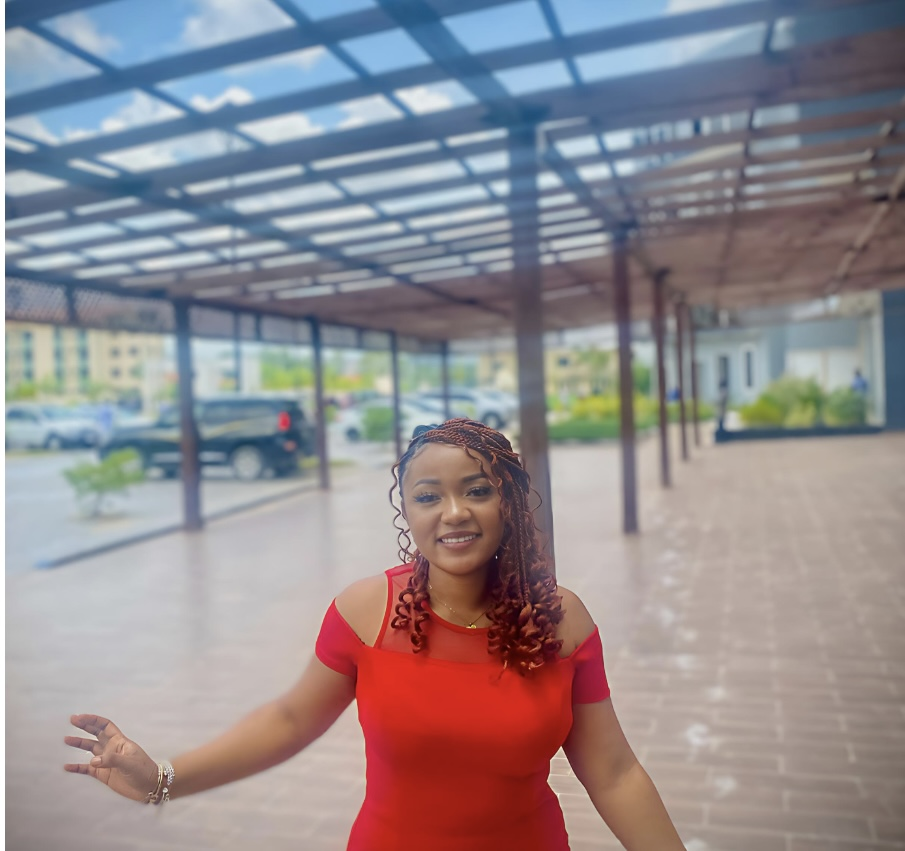
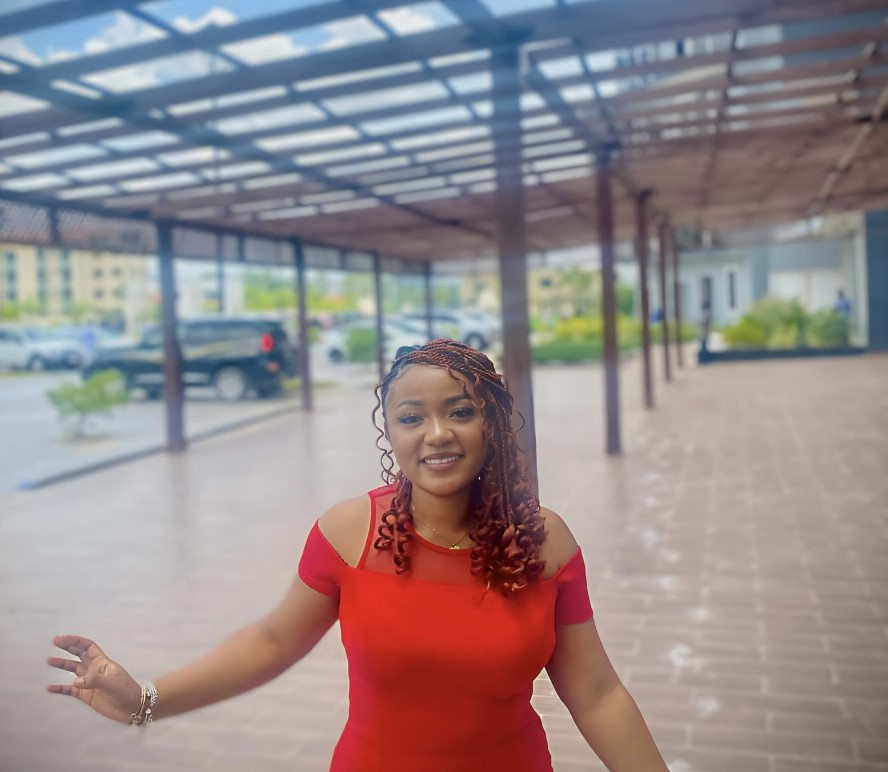
Update images and CSS.

diff --git a/index.css b/index.css
@@ -631,23 +631,24 @@ main {
 }
 
 @media (max-width: 768px) {
+
   body {
     background-color: #000000;
-    webkit-scrollbar {
-      width: 10px;
-      border-radius: 25px;
-    }
-    webkit-scrollbar-track {
-      background: #000000;
-    }
-    webkit-scrollbar-thumb {
-      background: #ec0000;
-      border-radius: 30px;
-    }
-    webkit-scrollbar-thumb:hover {
-      background: #ff0000;
-    }
   }
+
+  body::-webkit-scrollbar-track {
+    background: #000000;
+  }
+
+  body::-webkit-scrollbar-thumb {
+    background: #ff0000;
+    border-radius: 30px;
+  }
+
+  body::-webkit-scrollbar-thumb:hover {
+    background: #ff0000;
+  }
+}
   
  
   nav {
@@ -656,11 +657,14 @@ main {
 
     @media (max-width: 768px) {
       background-color: #97216a6e;
+      
     }
 
     @media only screen and (min-width: 768px) and (max-width: 1024px) {
       font-size: 15px;
     }
+
+  
   }
 
   header .logo {
@@ -683,15 +687,6 @@ main {
     }
   }
 
-  header button.nav-button {
-    /* display: none; */
-/* 
-    @media only screen and (min-width: 768px) and (max-width: 1024px) {
-      display: block;
-      margin-top: 28px;
-    } */
-  }
-
   header button.nav-button a{
     text-decoration: none;
     
@@ -710,7 +705,7 @@ main {
     @media (max-width: 768px) {
       min-height: 850px;
       padding: 20px;
-      padding-top: -5%;
+      padding-top: -6%;
     }
 
     @media only screen and (min-width: 1366px) and (max-width: 1024px) {
@@ -769,6 +764,11 @@ main {
       width: 350px;
       height: 350px;
     }
+
+    @media only screen and (min-width: 430px) and (max-width: 932px) {
+      width: 100%;
+    
+    }
   }
 
   #home .image img {
@@ -778,6 +778,10 @@ main {
     @media only screen and (min-width: 768px) and (max-width: 1024px) {
       width: 350px;
       height: 350px;
+      object-fit: cover;
+    }
+
+    @media only screen and (min-width: 430px) and (max-width: 932px) {
       object-fit: cover;
     }
   }
@@ -809,6 +813,11 @@ main {
 
     @media only screen and (min-width: 768px) and (max-width: 1024px) {
       font-size: 18px;
+      width: 100%;
+    }
+
+    @media only screen and (min-width: 430px) and (max-width: 932px) {
+      font-size: 17px;
       width: 100%;
     }
   }
@@ -850,12 +859,6 @@ main {
   #projects .card img {
     width: 100%;
     height: auto;
-  }
-
-  #projects .card .collabs-card img {
-    border-radius: 7px;
-    margin: 2rem;
-    width: 100%;
   }
 
   #footer {
@@ -945,6 +948,12 @@ main {
     @media only screen and (min-width: 768px) and (max-width: 1024px) {
       font-size: 10px;
     }
+
+    @media only screen and (min-width: 430px) and (max-width: 932px) {
+     
+      margin-left: -10px;
+     
+    }
   }
 
   #footer .info .footer-social-icons {
@@ -961,6 +970,12 @@ main {
       margin-top: 10px;
       font-size: 18px;
       margin-left: -9px;
+    }
+
+    @media only screen and (min-width: 430px) and (max-width: 932px) {
+      margin-top: 40px;
+      margin-left: -50px;
+      font-size: 19px;
     }
   }
 
@@ -1009,4 +1024,4 @@ main {
   #footer .form-button a {
     font-size: 16px;
   }
-}
+

diff --git a/index.html b/index.html
@@ -46,7 +46,7 @@
     </div>
 
     <div class="image">
-        <img src="images/nissi.JPG"/>
+        <img src="images/nissi2.png"/>
     </div>           
 </section>
 
@@ -136,18 +136,18 @@
         </div>
 
         <h2>Collabs</h2>
-        <div class="container">
+        <div class="container collabs">
                 <div class="card">
-                    <img style="width:350px;height:200px ;" src="images/img3.png"/>
+                    <img style="width:300px;height:200px ;" src="images/img6.png"/>
                 </div>
                 <div class="card">
-                    <img style="width:350px;height:200px ;" src="images/img12.png"/>
+                    <img style="width:300px;height:200px ;" src="images/img12.png"/>
                 </div>
                 <div class="card">
-                    <img style="width:320px;height:200px ;" src="images/img6.png"/>
+                    <img style="width:300px;height:200px ;" src="images/img3.png"/>
                 </div>
                 <div class="card">
-                    <img style="width:350px;height:200px ;" src="images/img15.png"/>
+                    <img style="width:300px;height:200px ;" src="images/img15.png"/>
                 </div>
         </div>
 
